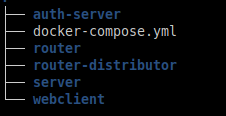
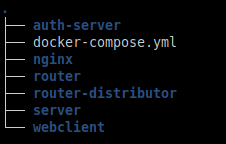
readme update

diff --git a/README.md b/README.md
@@ -12,7 +12,7 @@ docker-compose.yml is interesting for developers.
 Each repository at https://github.com/digital-stage has its own Dockerfile.  
 
 If you want to contribute/develop first clone the repositories at https://github.com/digital-stage .
-After that take the docker-compose.yml from this repository and put it inside your folder where you 
+After that take the docker-compose. and the nginx folder from this repository and put it inside your folder where you 
 cloned the repositories.  
 Your structure should look like this:
 
@@ -29,25 +29,24 @@ e.g. `docker compose build server`
 Running:
 `docker-compose up -d`
 
-The main entrypoint for the application is the web ui at localhost:3000 (TODO add nginx).  
-If you start the application there won't be any user added. You could create an user via the web app at 
+The main entrypoint for the application is the web ui at localhost:8080
+If you start the application for the first there won't be any user added. You could create an user via the web app at 
 http://localhost:3000 or via a POST request:  
-`curl -X POST -H "Content-Type: application/json" -d '{"name":"testuser","email":"test@test.tld","password":"Testtest@123"}' http://localhost:5000/signup
+`curl -X POST -H "Content-Type: application/json" -d '{"name":"testuser","email":"test@test.tld","password":"Testtest@123"}' http://localhost:8080/auth/signup
 `  
-
+The database is mounted ad ./data. 
 The router needs credentials to register himself to the router-distributor. The router takes this from 
 the env variables `EMAIL` and `PASSWORD`. These must match with the credentials you created before.
 
-After that the router needs to be restarted with `docker-compose restart router`.  
-To verify that a route was added either check the container logs or call GET `http://localhost:4020/routers` . 
+After that the router needs to be restarted with `docker-compose restart router`, if you just added the credentials
+recently. 
+To verify that a route was added either check the container logs or call GET `http://localhost:8080/routerdist/routers` . 
 The response should be a non empty array.
 
 
 ## TODO
 - The containers are build for dev purposes. These are not production ready containers.
-- Add nginx (also for cors issues).
 - Change the docker build so that it won't clone each repository. Instead take the prebuild binaries.
-- The webclient uses fetch, which uses ssl. Either disable ssl or uses a self signed certificate.
 - Add ipv6 for the containers. The router uses ipv6, which is disabled inside the containers. (ipv6 must
 be enabled in the docker daemon for usage).
 
